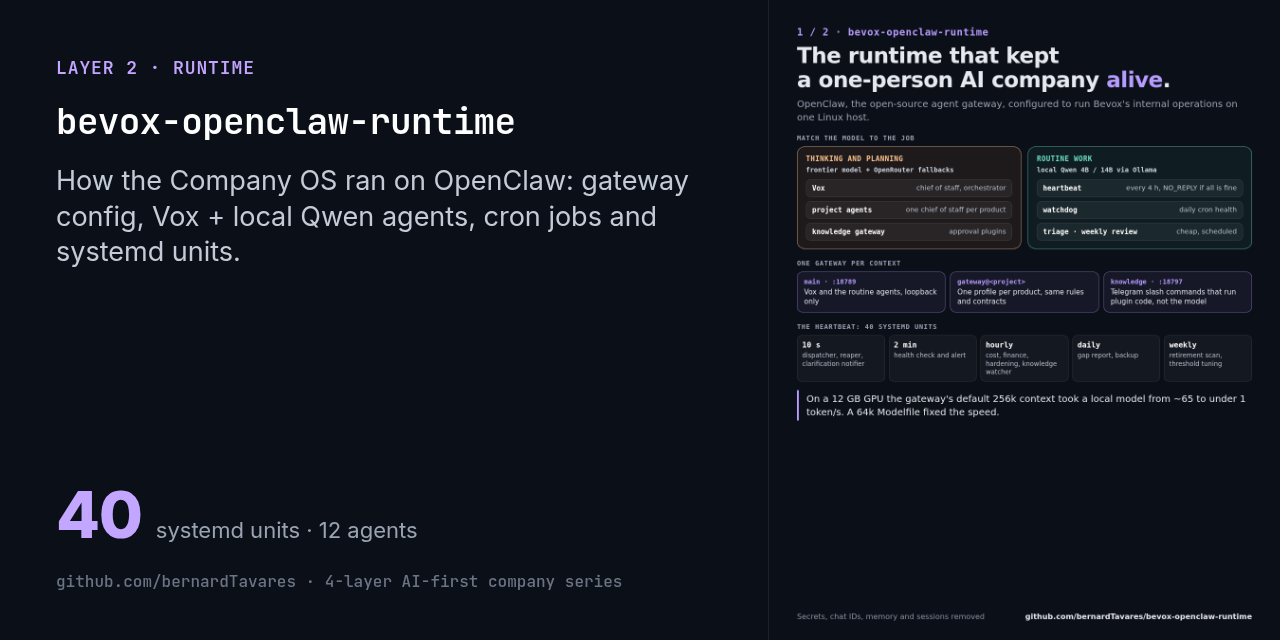
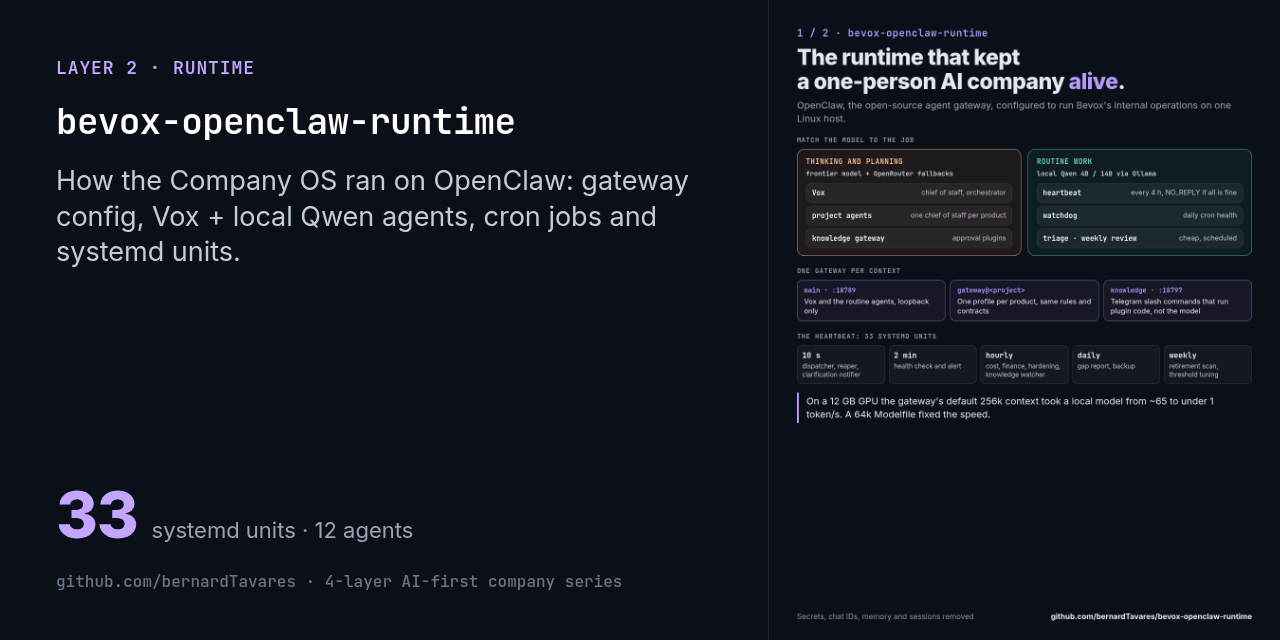
docs: correct systemd unit count (19 services + 14 timers)

diff --git a/README.md b/README.md
@@ -31,7 +31,7 @@ It's the runtime half of the Company OS. The code that ran on it is public too:
 config/openclaw.example.json   gateway config: agents, models, fallbacks, channels, hooks, plugins
 agents/<id>/                   persona and operating files per agent (SOUL, AGENTS, IDENTITY, TOOLS, HEARTBEAT, BOOT)
 cron/jobs.json                 OpenClaw cron jobs (agent turns on a schedule)
-systemd/                       23 services + 17 timers (gateways, dispatcher, reaper, health, cost, knowledge)
+systemd/                       19 services + 14 timers, plus drop-in overrides (gateways, dispatcher, reaper, health, cost, knowledge)
 modelfiles/                    the Ollama Modelfile for the local 64k-context model
 scripts/telegram-send.sh       small helper for sending to Telegram from shell jobs
 ```
